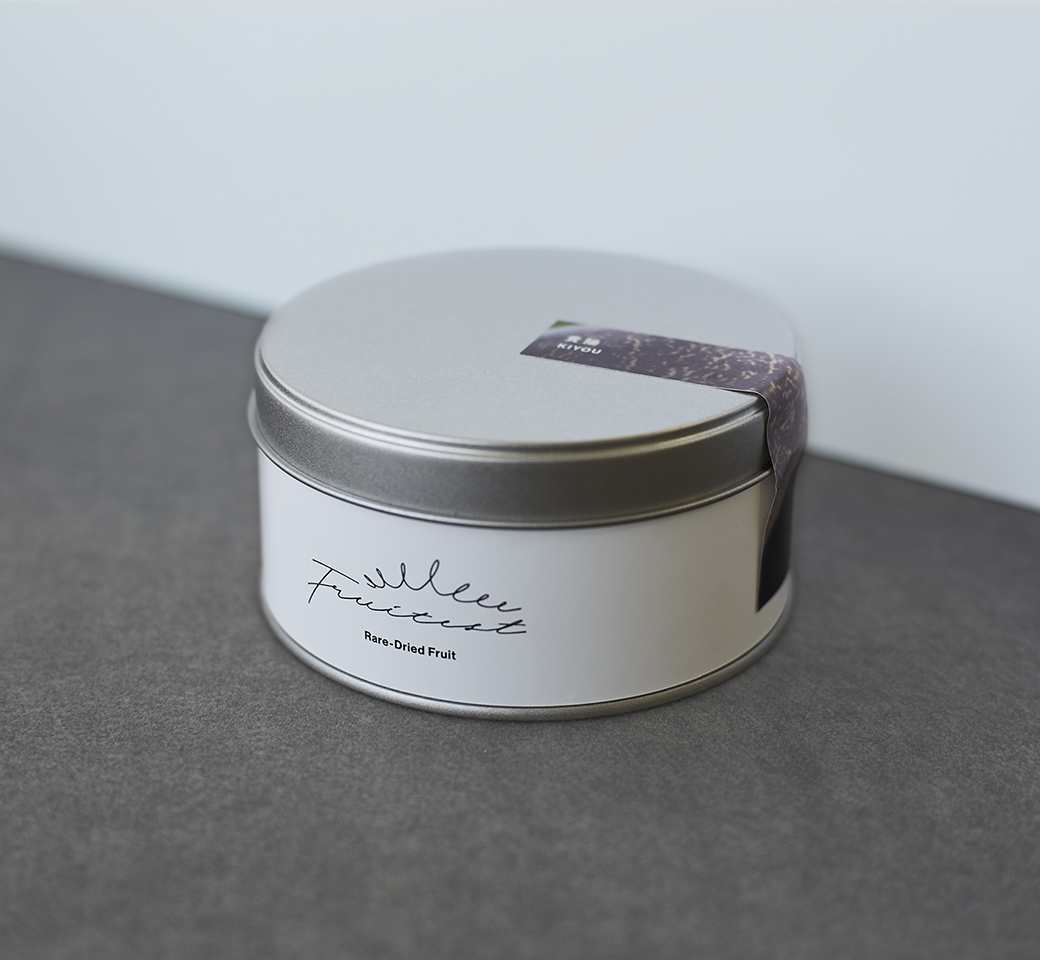
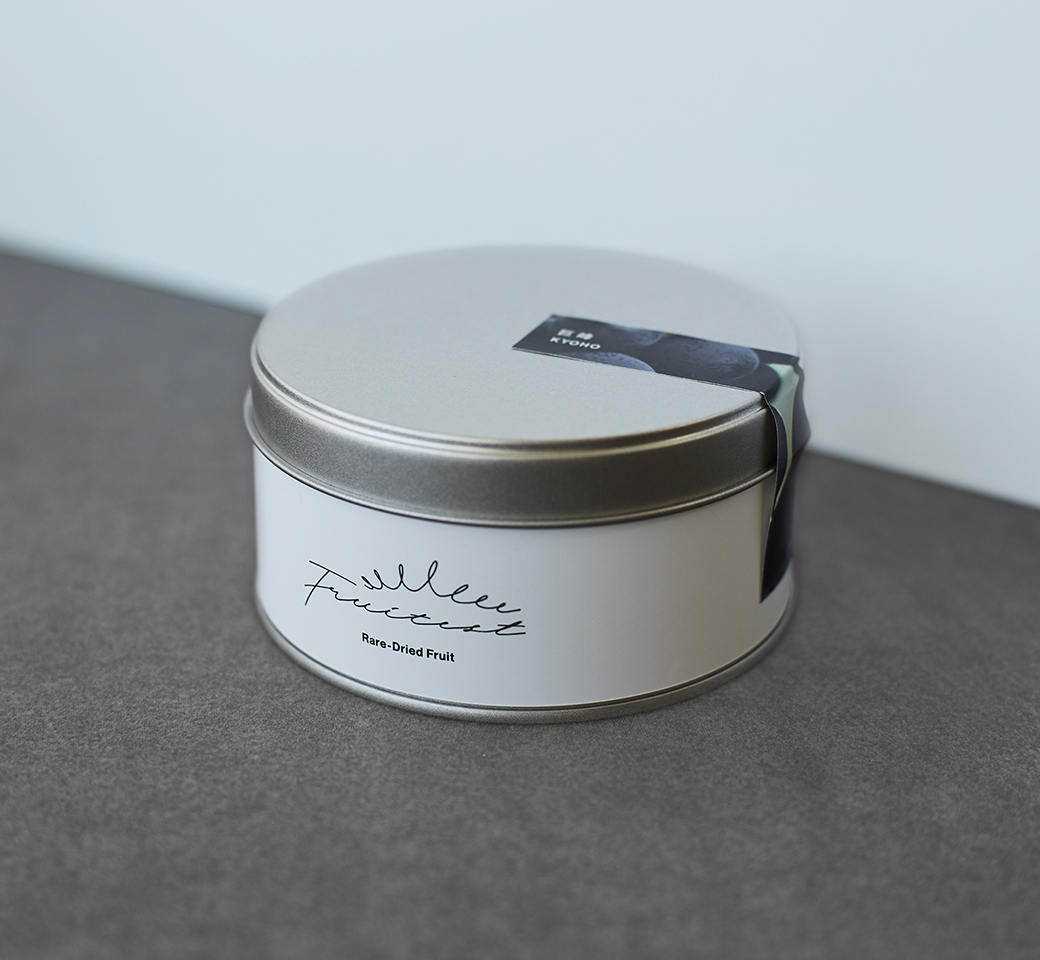
巨峰とピオーネの商品画像作成

diff --git a/color-me-files/edited/マスカットオブアレキサンドリア.php b/color-me-files/edited/マスカットオブアレキサンドリア.php
@@ -6,7 +6,7 @@
   <div class="inner">
   <div class="flex_wrap reverse">
     <div class="flex_img">
-      <img src="https://journal.fruitest.jp/wp-content/themes/fruitest-theme/img/product_detail/kiyou/detail01.jpg">
+      <img src="https://journal.fruitest.jp/wp-content/themes/fruitest-theme/img/product_detail/alex/detail01.jpg">
     </div>
     <div class="flex_txt">
       <div class="comp-title">
@@ -14,7 +14,7 @@
         <span class="ttl_en">FEATURES</span>
       </div>
       <div class="sp_img">
-        <img src="https://journal.fruitest.jp/wp-content/themes/fruitest-theme/img/product_detail/kiyou/detail01.jpg">
+        <img src="https://journal.fruitest.jp/wp-content/themes/fruitest-theme/img/product_detail/alex/detail01.jpg">
       </div>
       <!---<h3 class="copy">
         <span>収穫期間、わずか10日。</span>
@@ -26,7 +26,7 @@
   </div><!-- flex_wrap -->
   <div class="flex_wrap">
     <div class="flex_img">
-      <img src="https://journal.fruitest.jp/wp-content/themes/fruitest-theme/img/product_detail/kiyou/detail02.jpg">
+      <img src="https://journal.fruitest.jp/wp-content/themes/fruitest-theme/img/product_detail/alex/detail02.jpg">
     </div>
     <div class="flex_txt">
       <div class="comp-title">
@@ -34,18 +34,18 @@
         <span class="ttl_en">FLAVOR</span>
       </div>
       <div class="sp_img">
-        <img src="https://journal.fruitest.jp/wp-content/themes/fruitest-theme/img/product_detail/kiyou/detail02.jpg">
+        <img src="https://journal.fruitest.jp/wp-content/themes/fruitest-theme/img/product_detail/alex/detail02.jpg">
       </div>
       <p class="txt"><span>皮が薄く繊細なアレキを、優しくゆっくりとレア・ドライに仕上げました。</span>食べると口の中で徐々に広がってくるマスカット香（紅茶のような香り）が特徴です。<span>上品な甘さと、孤高の香りをお楽しみください。</span></p>
       <div class="chart_wrap">
-        <img src="https://journal.fruitest.jp/wp-content/themes/fruitest-theme/img/product_detail/kiyou/chart.png">
+        <img src="https://journal.fruitest.jp/wp-content/themes/fruitest-theme/img/product_detail/alex/chart.png">
       </div>
     </div>
   </div><!-- flex_wrap -->
   <div class="flex_origin">
     <div class="flex_img">
       <div class="origin_img">
-        <img src="https://journal.fruitest.jp/wp-content/themes/fruitest-theme/img/product_detail/kiyou/location.png">
+        <img src="https://journal.fruitest.jp/wp-content/themes/fruitest-theme/img/product_detail/alex/location.png">
       </div>
     </div>
     <div class="flex_txt">
@@ -54,7 +54,7 @@
         <span class="ttl_en">PLACE OF ORIGIN</span>
       </div>
       <div class="sp_img">
-        <img src="https://journal.fruitest.jp/wp-content/themes/fruitest-theme/img/product_detail/kiyou/location.png">
+        <img src="https://journal.fruitest.jp/wp-content/themes/fruitest-theme/img/product_detail/alex/location.png">
       </div>
       <div class="origin_upper">
         <div class="origin_item">

diff --git a/color-me-files/edited/ピオーネ.php b/color-me-files/edited/ピオーネ.php
@@ -6,7 +6,7 @@
   <div class="inner">
   <div class="flex_wrap reverse">
     <div class="flex_img">
-      <img src="https://journal.fruitest.jp/wp-content/themes/fruitest-theme/img/product_detail/kiyou/detail01.jpg">
+      <img src="https://journal.fruitest.jp/wp-content/themes/fruitest-theme/img/product_detail/pione/detail01.jpg">
     </div>
     <div class="flex_txt">
       <div class="comp-title">
@@ -14,7 +14,7 @@
         <span class="ttl_en">FEATURES</span>
       </div>
       <div class="sp_img">
-        <img src="https://journal.fruitest.jp/wp-content/themes/fruitest-theme/img/product_detail/kiyou/detail01.jpg">
+        <img src="https://journal.fruitest.jp/wp-content/themes/fruitest-theme/img/product_detail/pione/detail01.jpg">
       </div>
       <!--<h3 class="copy">
         <span>収穫期間、わずか10日。</span>
@@ -26,7 +26,7 @@
   </div><!-- flex_wrap -->
   <div class="flex_wrap">
     <div class="flex_img">
-      <img src="https://journal.fruitest.jp/wp-content/themes/fruitest-theme/img/product_detail/kiyou/detail02.jpg">
+      <img src="https://journal.fruitest.jp/wp-content/themes/fruitest-theme/img/product_detail/pione/detail02.jpg">
     </div>
     <div class="flex_txt">
       <div class="comp-title">
@@ -34,18 +34,18 @@
         <span class="ttl_en">FLAVOR</span>
       </div>
       <div class="sp_img">
-        <img src="https://journal.fruitest.jp/wp-content/themes/fruitest-theme/img/product_detail/kiyou/detail02.jpg">
+        <img src="https://journal.fruitest.jp/wp-content/themes/fruitest-theme/img/product_detail/pione/detail02.jpg">
       </div>
       <p class="txt">大玉ぶどうのピオーネは、プチっと噛むと、みずみずしい果肉がじゅわっと口の中に広がります。<span>凝縮された濃い甘さと、それを引き立てる酸味の絶妙なバランスをお楽しみください。</span></p>
       <div class="chart_wrap">
-        <img src="https://journal.fruitest.jp/wp-content/themes/fruitest-theme/img/product_detail/kiyou/chart.png">
+        <img src="https://journal.fruitest.jp/wp-content/themes/fruitest-theme/img/product_detail/pione/chart.png">
       </div>
     </div>
   </div><!-- flex_wrap -->
   <div class="flex_origin">
     <div class="flex_img">
       <div class="origin_img">
-        <img src="https://journal.fruitest.jp/wp-content/themes/fruitest-theme/img/product_detail/kiyou/location.png">
+        <img src="https://journal.fruitest.jp/wp-content/themes/fruitest-theme/img/product_detail/pione/location.png">
       </div>
     </div>
     <div class="flex_txt">
@@ -54,7 +54,7 @@
         <span class="ttl_en">PLACE OF ORIGIN</span>
       </div>
       <div class="sp_img">
-        <img src="https://journal.fruitest.jp/wp-content/themes/fruitest-theme/img/product_detail/kiyou/location.png">
+        <img src="https://journal.fruitest.jp/wp-content/themes/fruitest-theme/img/product_detail/pione/location.png">
       </div>
       <div class="origin_upper">
         <div class="origin_item">
